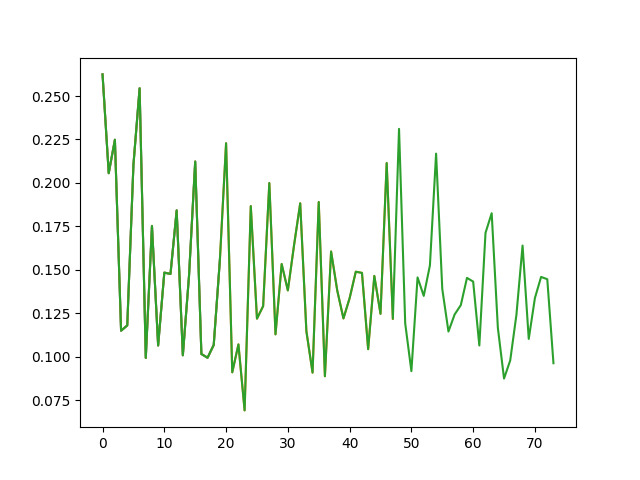
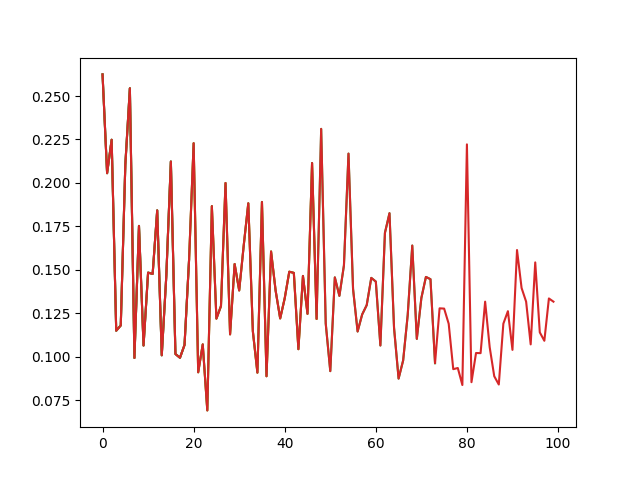
Step every 2 frames

diff --git a/wrapped_megaman.py b/wrapped_megaman.py
@@ -39,7 +39,7 @@ class MegaMan():
         self.current_boss_hp = info['boss_hp']
         self.is_pressing_jump = False
 
-    def step(self, action):
+    def step(self, action):            
         if sum(action) != 1:
             raise ValueError('Multiple input actions!')
         for i in range(len(action)):
@@ -54,7 +54,6 @@ class MegaMan():
             self.is_pressing_jump = True
         else:
             self.is_pressing_jump = False
-
         obs, _reward, _done, truncated, info = self.env.step(arr)
         
         # Create a 10x10 pure green square
@@ -77,7 +76,6 @@ class MegaMan():
         print(player_X, player_Y)
         #obs[player_Y - 35:player_Y, player_X:player_X + 25] = green_square
 
-        four_obs = (np.stack((obs, obs, obs, obs)))
         # Define the RGB values to be replaced with black
         image = obs[player_Y - 35:player_Y, player_X:player_X + 25]
         target_colors = [
@@ -96,8 +94,12 @@ class MegaMan():
                         # Replace the pixel color with black
                         image[y, x] = [50, 255, 87]
         obs[player_Y - 35:player_Y, player_X:player_X + 25] = image
-        damage_to_boss = -(info['boss_hp'] - self.current_boss_hp)
-        damage_to_player = -(info['health'] - self.current_player_hp)
+
+        _, _, _, _, info2 = self.env.step(arr)
+        damage_to_boss1 = -(info['boss_hp'] - self.current_boss_hp)
+        damage_to_player1 = -(info['health'] - self.current_player_hp)
+        damage_to_boss2 = -(info2['boss_hp'] - self.current_boss_hp)
+        damage_to_player2 = -(info2['health'] - self.current_player_hp)
 
         if info['is_invincible'] != 0:
             reward = 0
@@ -106,22 +108,24 @@ class MegaMan():
             image_height, image_width, _ = obs.shape
             obs[0:20, image_width - 20:] = red_square
         else:
-            if damage_to_boss != 0 or damage_to_player != 0:
-                reward = damage_to_boss * 2 - damage_to_player
+            if damage_to_boss1 != 0 or damage_to_player1 != 0 or damage_to_boss2 != 0 or damage_to_player2 != 0:
+                reward = (damage_to_boss1 + damage_to_boss2) * 2 - (damage_to_player1 + damage_to_player2)
             else:
                 reward = 0.38
 
-        self.current_boss_hp = info['boss_hp']
-        self.current_player_hp = info['health']
+        self.current_boss_hp = info2['boss_hp'] # update boss hp
+        self.current_player_hp = info2['health'] # update player hp
 
         done = False
-        if self.current_boss_hp <= 0 or self.current_player_hp <= 0:
+        if info['boss_hp'] <= 0 or info['health'] <= 0 or info2['boss_hp'] <= 0 or info2['health'] <= 0:
             # if self.current_boss_hp <= 0:
             #     reward = 4 + self.current_player_hp
             # elif self.current_player_hp <= 0:
             #     reward = -4 - self.current_boss_hp
             done = True
             self.env.reset()
+
+        
         return obs, reward, done, truncated, info
     
     def reset(self):
